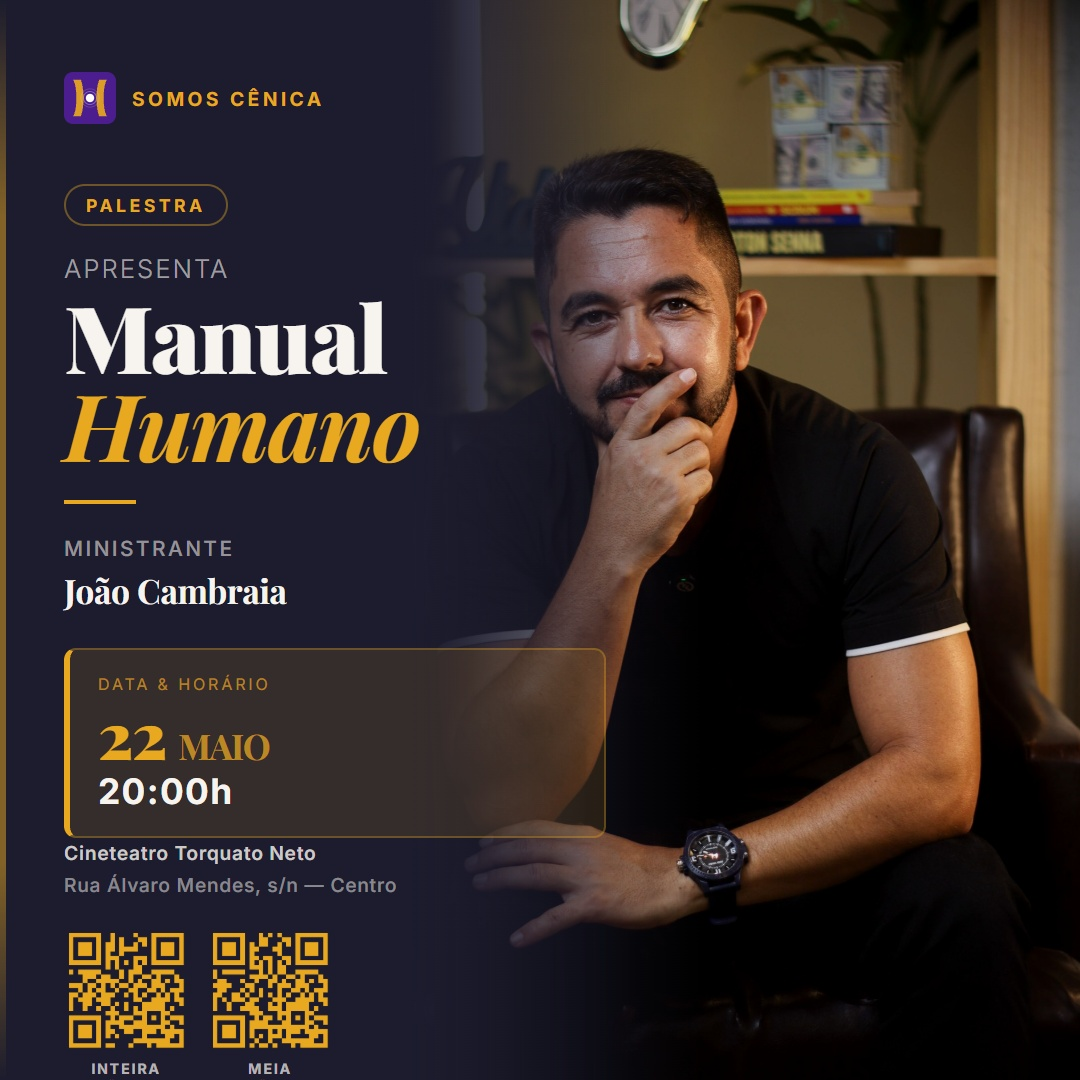
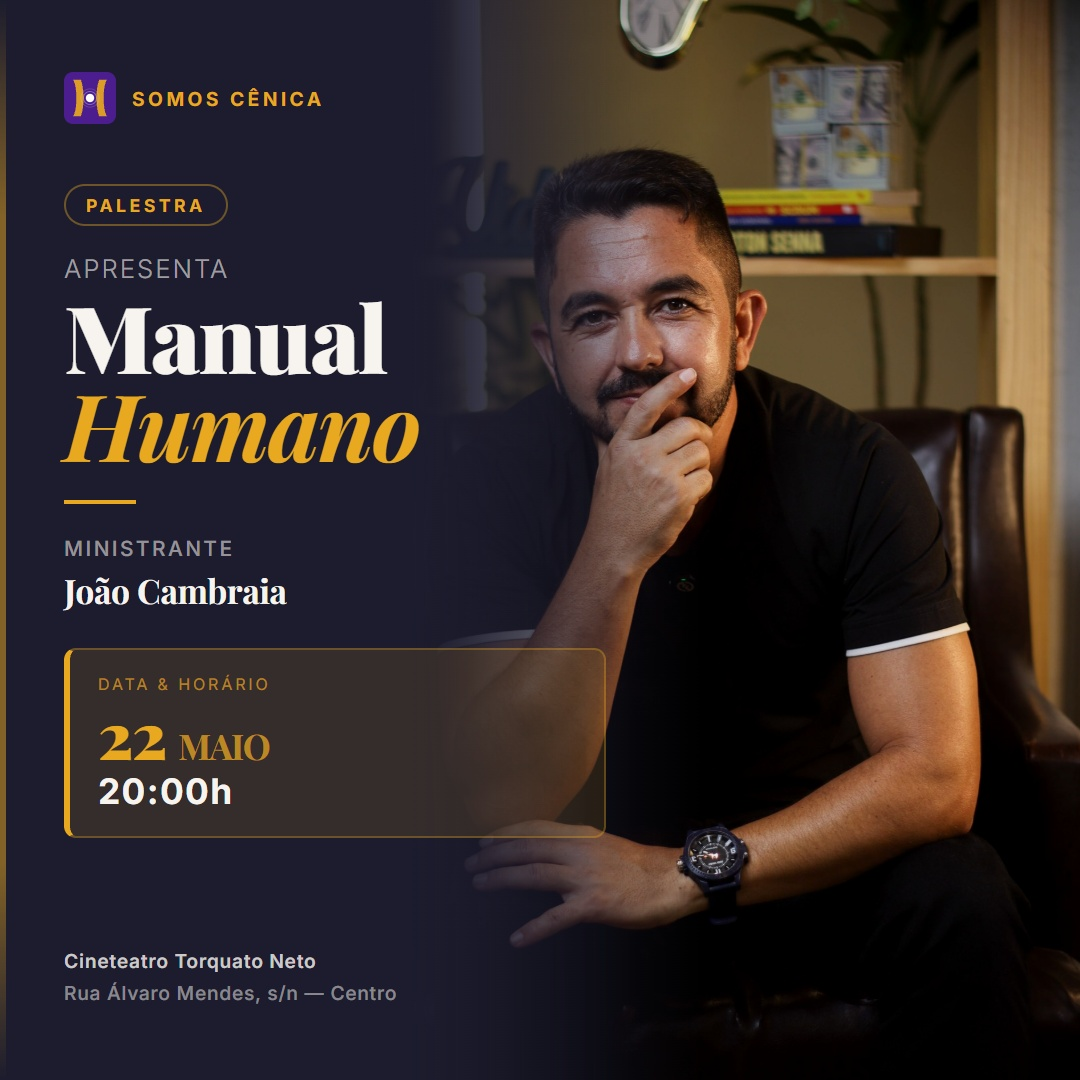
Remove QR codes dos cartazes e regenera imagens

Changed region(s): [[0.0611, 0.8556, 0.3667, 1.0], [0.0611, 0.7639, 0.3056, 0.825], [0.3056, 0.7944, 0.3667, 0.825]]

diff --git a/cartazes/index.html b/cartazes/index.html
@@ -250,18 +250,6 @@ h2{color:#E8A820;font-family:'Inter',sans-serif;font-size:.75rem;letter-spacing:
           <strong>Cineteatro Torquato Neto</strong><br>
           Rua Álvaro Mendes, s/n — Centro
         </p>
-        <div class="sq-tickets">
-          <div class="sq-ticket">
[1 lines of base64/hex data omitted]
-            <p class="sq-ticket-label">Inteira</p>
-            <p class="sq-ticket-price">R$ 100</p>
-          </div>
-          <div class="sq-ticket">
[1 lines of base64/hex data omitted]
-            <p class="sq-ticket-label">Meia</p>
-            <p class="sq-ticket-price">R$ 50</p>
-          </div>
-        </div>
       </div>
     </div>
   </div>
@@ -309,18 +297,6 @@ h2{color:#E8A820;font-family:'Inter',sans-serif;font-size:.75rem;letter-spacing:
           <strong>Cineteatro Torquato Neto</strong><br>
           Rua Álvaro Mendes, s/n — Centro
         </p>
-        <div class="st-tickets">
-          <div class="st-ticket">
[1 lines of base64/hex data omitted]
-            <p class="st-ticket-label">Inteira</p>
-            <p class="st-ticket-price">R$ 100</p>
-          </div>
-          <div class="st-ticket">
[1 lines of base64/hex data omitted]
-            <p class="st-ticket-label">Meia</p>
-            <p class="st-ticket-price">R$ 50</p>
-          </div>
-        </div>
       </div>
     </div>
   </div>
